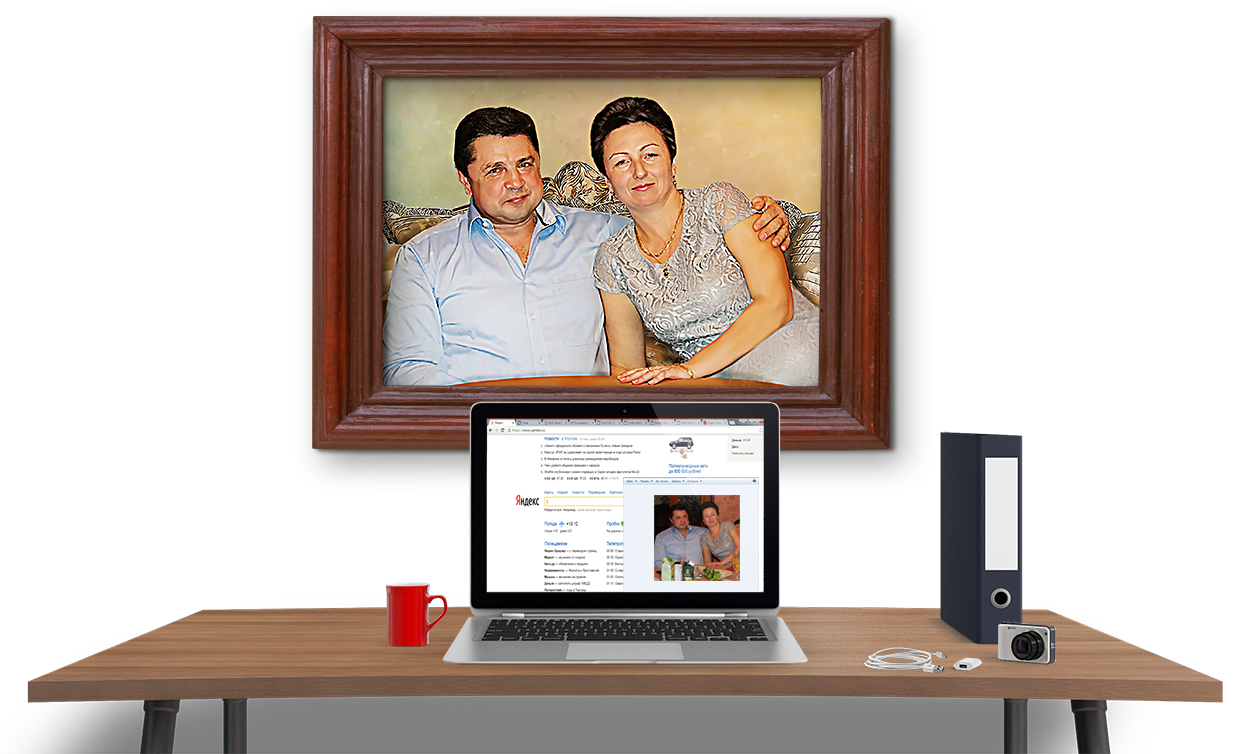
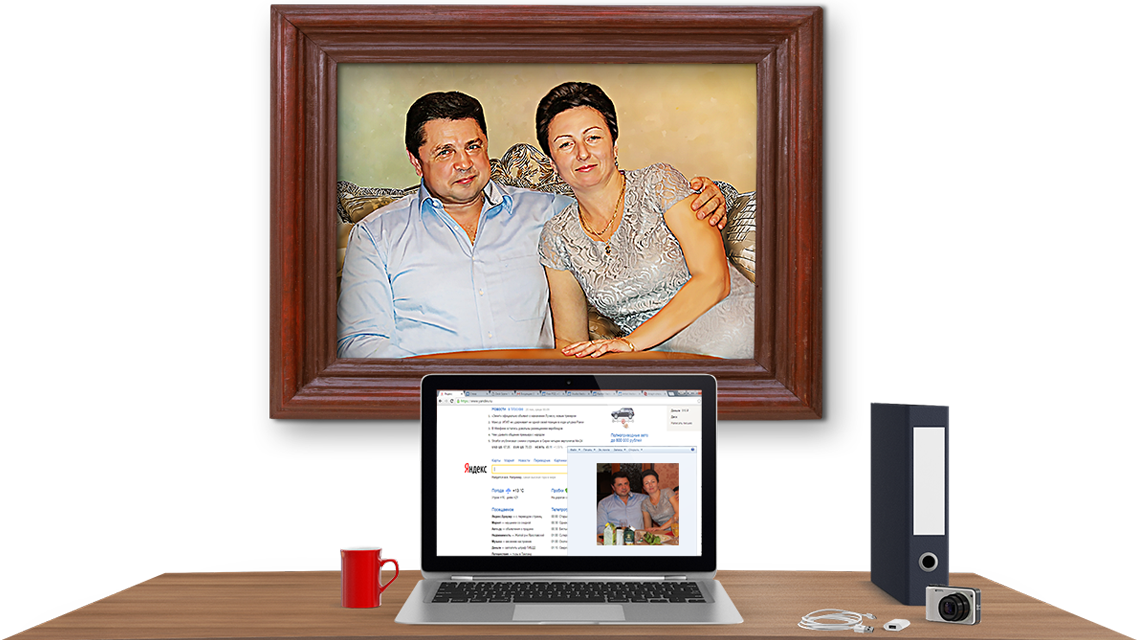
portrethit

diff --git a/wowportret/static/css/full-width-pics.css b/wowportret/static/css/full-width-pics.css
@@ -217,7 +217,7 @@ footer {
 }
 
 .background-classic {
-    height: 430px;
+    height: 708px;
     /*background-color: #CDBEA9;*/
     /*background: url('../img/content/classic/text.jpg');*/
     /*background: url('../img/bg/texture.jpg');*/
@@ -276,7 +276,7 @@ footer {
 
 /*--- maslo na holste -- */
 .header-maslo {
-    min-height: 656px;
+    min-height: 603px;
 }
 
 .background-maslo {
@@ -311,18 +311,18 @@ footer {
 }
 
 .mt-imit {
-    margin-top: 210px;
+    /*margin-top: 210px;*/
 }
 
 .background-imit {
     /*background-color: #5B3623;*/
     /*background: url('../img/content/pmaslo/back_test1.jpg') repeat;*/
-    height: 575px;
-    background: #294512; /* For browsers that do not support gradients */
-    background: -webkit-linear-gradient(#294512, rgba(255, 255, 0, 0)); /* For Safari 5.1 to 6.0 */
-    background: -o-linear-gradient(#294512, rgba(255, 255, 0, 0)); /* For Opera 11.1 to 12.0 */
-    background: -moz-linear-gradient(#294512, rgba(255, 255, 0, 0)); /* For Firefox 3.6 to 15 */
-    background: linear-gradient(#294512, rgba(255, 255, 0, 0)); /* Standard syntax */
+    height: 566px;
+    background: #C0C0C0; /* For browsers that do not support gradients */
+    background: -webkit-linear-gradient(#C0C0C0, rgba(255, 255, 0, 0)); /* For Safari 5.1 to 6.0 */
+    background: -o-linear-gradient(#C0C0C0, rgba(255, 255, 0, 0)); /* For Opera 11.1 to 12.0 */
+    background: -moz-linear-gradient(#C0C0C0, rgba(255, 255, 0, 0)); /* For Firefox 3.6 to 15 */
+    background: linear-gradient(#C0C0C0, rgba(255, 255, 0, 0)); /* Standard syntax */
 }
 
 .img-imit {
@@ -591,14 +591,14 @@ footer {
         height: 452px;
     }
     .background-classic {
-        height: 452px;
+        height: 595px;
         background-repeat: repeat;
     }
     .background-imit {
-        height: 491px;
+        height: 479px;
     }
     .mt-imit {
-        margin-top: 175px;
+        /*margin-top: 175px;*/
     }
     .mt-popart {
         margin-top: 91px;
@@ -638,19 +638,20 @@ footer {
 @media(max-width:992px) {
 
     .header-classic {
-        min-height: 616px;
+        min-height: 511px;
     }
 
     .background-classic {
         min-height: 259px;
+        height: 472px;
     }
 
     .background-imit {
-        height: 403px;
+        height: 383px;
     }
 
     .mt-imit {
-        margin-top: 133px;
+        /*margin-top: 133px;*/
     }
 
     .background-popart {

diff --git a/wowportret/templates/wowportret/maslo.html b/wowportret/templates/wowportret/maslo.html
@@ -9,8 +9,8 @@
             <!-- <div class="header-maslo" style="background: url({% static 'img/content/maslo/bg.jpg' %}) repeat;"> -->
             <div class="header-maslo">
                 <div class="col-md-2 hidden-sm-down">
-                    <img class="sakura" src="{% static 'img/content/maslo/sakura.png' %}" alt="">
-                    <img class="pen" src="{% static 'img/content/maslo/pen.png' %}" alt="">
+                    <!-- <img class="sakura" src="{% static 'img/content/maslo/sakura.png' %}" alt=""> -->
+                    <!-- <img class="pen" src="{% static 'img/content/maslo/pen.png' %}" alt=""> -->
                     <!-- <img class="foto-maslo" src="{% static 'img/content/maslo/photo.png' %}" alt=""> -->
                 </div>
 
@@ -23,7 +23,7 @@
                     <!-- </div> -->
                 </div>
 
-                <div class="col-md-offset-1 col-md-10 hidden-sm-down">
+                <div class="col-md-offset-0 col-md-12 hidden-sm-down">
                     <img class="img-classic" src="{% static 'img/content/maslo/port.png' %}" alt="">
                 </div>
 

diff --git a/wowportret/templates/wowportret/classic.html b/wowportret/templates/wowportret/classic.html
@@ -17,7 +17,7 @@
                     <!-- <div class="col-md-1 hidden-md-down"> -->
                         <!-- <img class="hand" src="{% static 'img/content/classic/hand.png' %}" alt=""> -->
                     <!-- </div> -->
-                    <div class="col-md-offset-1 col-md-10 hidden-sm-down">
+                    <div class="col-md-offset-0 col-md-12 hidden-sm-down">
                         <img class="img-classic" src="{% static 'img/content/classic/port.png' %}" alt="">
                     </div>
 
